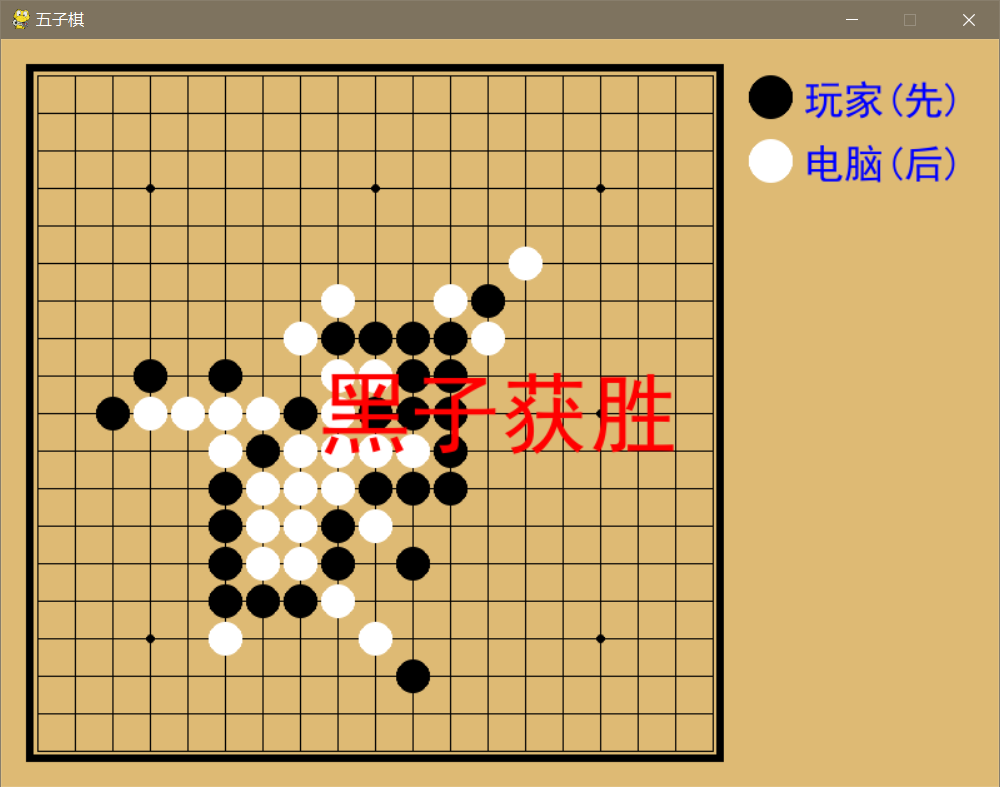
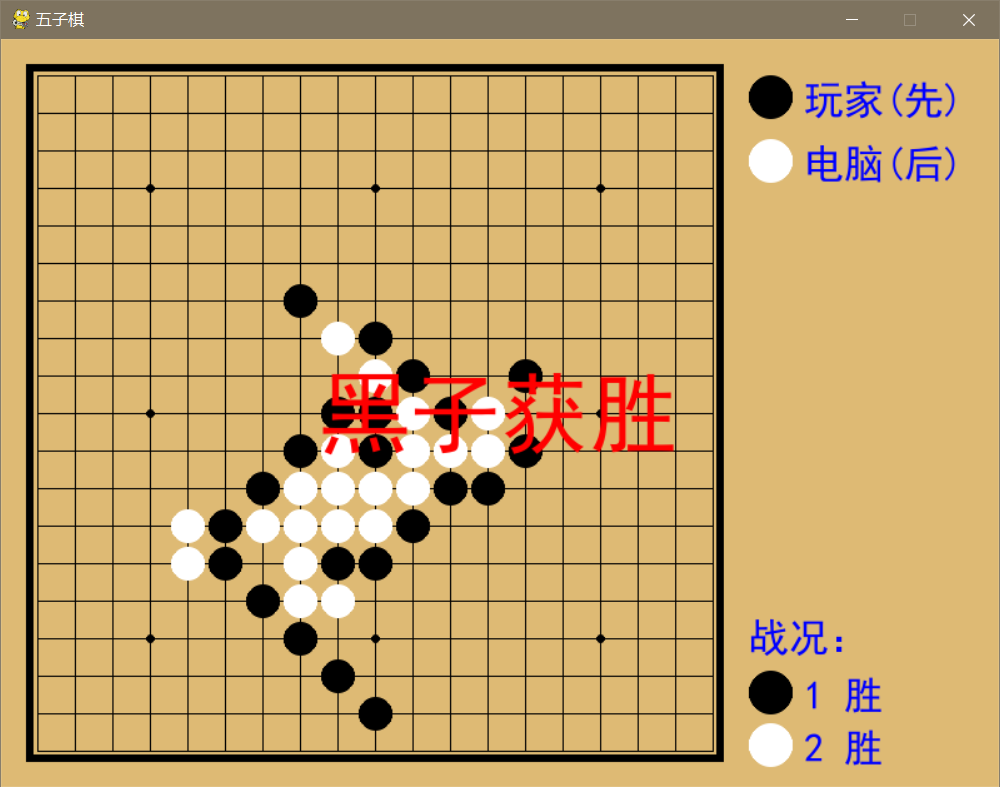
README.md

Changed region(s): [[0.093, 0.305, 0.558, 0.9454], [0.744, 0.7929, 0.899, 0.9759]]

diff --git a/README.md b/README.md
@@ -1,4 +1,4 @@
-# 五子棋
+# 五子棋——人机对战
 
 [TOC]
 
@@ -8,16 +8,37 @@
 
 ## 算法设计
 
-在双方每次落子之后对棋局进行评估，分别判断**共线棋子数**，**共线棋子中是否有空格**和**连续棋子两端是否有阻挡**，分配不同的权重，用记分形式表示，进而判断对玩家或者电脑的利弊，得到最佳的落子位置（算法位于`./chess/play.py`）第177行。
+### 算法思路
+
+在双方每次落子之后对棋局进行评估，判断哪个位置的得分最高，分别判断**共线棋子数**，**共线棋子中是否有空格**和**连续棋子两端是否有阻挡**，分配不同的权重，用记分形式表示，某个位置的得分是横向、纵向和斜向的得分之和，进而判断对玩家或者电脑的利弊，得到最佳的落子位置（算法位于`./chess/play.py`）第177行。
+
+<img src="./img/score.png" alt="score" style="zoom: 80%;" />
+
+### 优缺点
+
+这样的算法可以使得当前落子是最优的，但是具有一定的局限性，一次落子要么是自己进攻最有利的点，要么是防守最有利的点，不能两者兼顾。
 
 ## 项目结构
 
 ```
+.
+├── chess
+│   ├── __init__.py
+│   ├── chess.py
+│   └── play.py
+├── img
+│   └── win.png
+├── main.py
+├── README.md
+└── requirements.txt
 
+2 directories, 7 files
 ```
 
 功能函数位于`./chess/play.py`第38行
 
 ## 运行结果
 
-<img src="./img/win.png" alt="win" style="zoom:67%;" />
+玩家（黑棋）先手。一局结束后按`Enter`键进入下一局，棋盘右下角记录战况。
+
+<img src="./img/win.png" alt="win" style="zoom: 80%;" />
